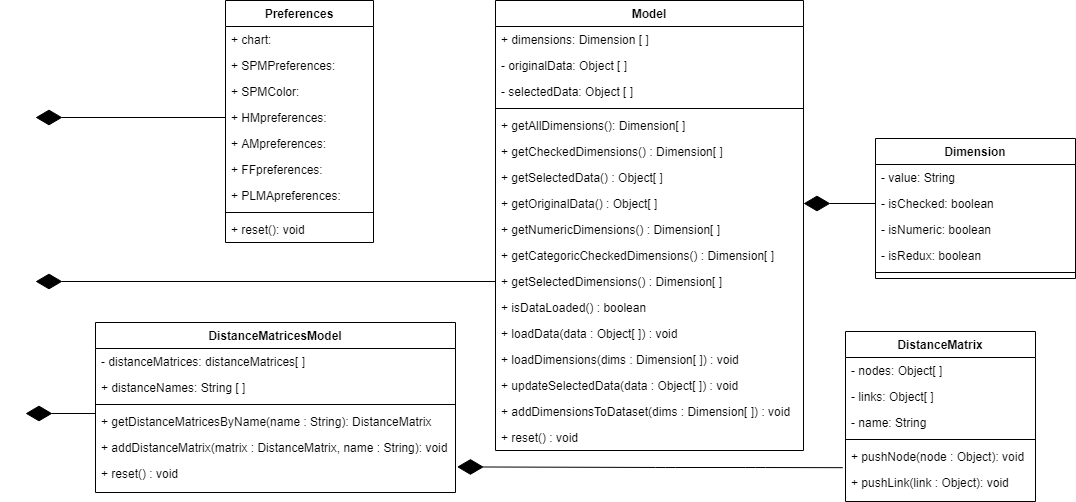
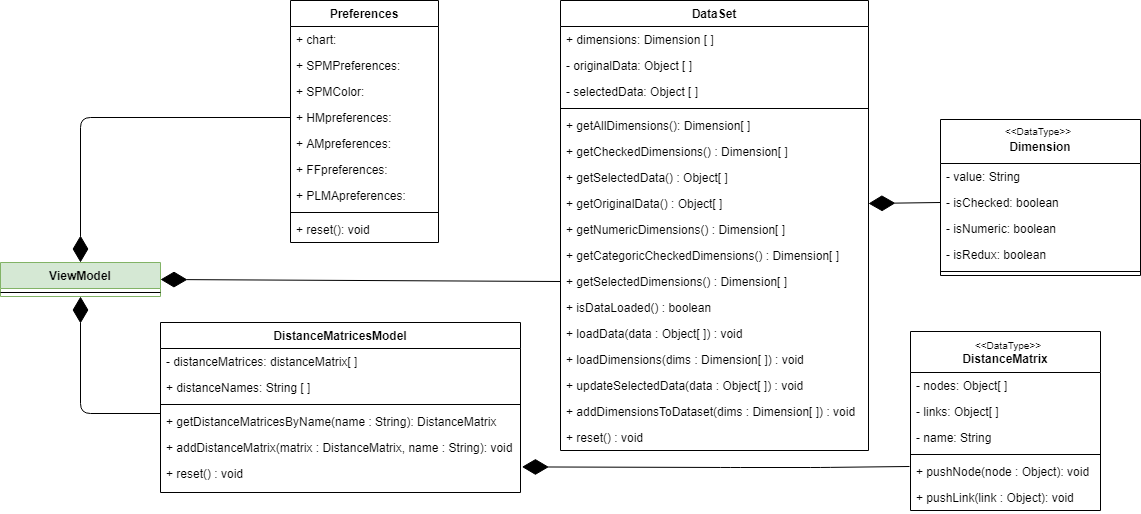
update diagrammi

diff --git a/DocEsterna/AllegatoTecnico/Section/ArchitetturaProdotto.tex b/DocEsterna/AllegatoTecnico/Section/ArchitetturaProdotto.tex
@@ -11,6 +11,7 @@ Il pattern architetturale scelto dal gruppo per lo sviluppo del progetto è il M
 
 Il passaggio dei dati dal \textit{Model} alle varie componenti grafiche avviene attraverso l'utilizzo di un \textit{Context React}, al quale viene passato un'istanza del \textit{ViewModel}. L'utilizzo di un \textit{Context React} ci permette di accedere al valore corrente del \textit{ViewModel} in qualsiasi porzione della \textit{View}, senza doverlo passare di componente in componente attraverso le props (ossia gli argomenti dei componenti che compongono la vista). Nella radice dell'applicazione viene infatti creata un'istanza del \textit{ViewModel}, che viene passata ad un \textit{Context.Provider}, che fa da contenitore per tutta la \textit{View}. All'interno di tale contenitore ogni componente può utilizzare un hook per accedere al \textit{Context React} ed utilizzare il valore più recente del \textit{ViewModel}.\\ È stato scelto di utilizzare un \textit{Context React} per il passaggio dei dati in quanto la nostra applicazione è molto profonda e non risultava conveniente passare i dati per molti componenti rischiando, nel peggiore dei casi, di doverli utilizzare nell'ultimo della gerarchia.\\
 Per poter fare in modo che una componente della \textit{View} si renderizzi non solo al cambiamento del suo stato interno ma anche al cambiamento dei dati nel \textit{Model}, abbiamo utilizzato la libreria \textit{Mobx}. Questa ci permette di implementare l'\textbf{observer pattern}, non supportato di default da \textit{React}. A tale scopo, Mobx permette di segnare delle classi (o attributi di esse) come "\textit{observable}" e di costruire dei componenti della View come "\textit{observer}". Quest'ultimi vengono automaticamente ri-renderizzati al cambiamento di un qualsiasi attributo \textit{observable}.
+
 \newpage
 
 \subsection{Diagramma dei package}
@@ -28,7 +29,7 @@ Per poter fare in modo che una componente della \textit{View} si renderizzi non 
 
 \subsection{Diagrammi delle classi}
 \begin{figure}[hb]
-\includegraphics[width=14.8cm]{Images/Allegato Tecnico-Class}
+\includegraphics[width=14.7cm]{Images/Allegato Tecnico-Class}
 \centering
 \caption{Diagramma delle classi generale}
 \end{figure}
@@ -71,20 +72,24 @@ Qui di seguito vengono rappresentati i diagrammi di sequenza per le 3 operazioni
 \caption{Diagramma di sequenza che modella il processo di riduzione dimensionale}
 \end{figure}
 \newpage
+\vspace*{\fill}
 \begin{figure}[hb]
 \includegraphics[width=15.5cm]{Images/Allegato Tecnico-Sequenza-PLMApref}
 \centering
 \caption{Diagramma di sequenza che modella il processo di visualizzazione delle preferenze per il grafico PLMA}
 \end{figure}
+\vfill
 \newpage
+\vspace*{\fill}
 \begin{figure}[hb]
 \includegraphics[width=15.5cm]{Images/Allegato Tecnico-Sequenza-PLMA}
 \centering
 \caption{Diagramma di sequenza che modella il processo per la visualizzazione del grafico PLMA}
 \end{figure}
+\vfill
 \newpage
 
-\subsection{Design pattern utilizzati}
+\subsection{Strategy Pattern}
 Per implementare il processo di riduzione dimensionale è stato utilizzato il design pattern \textbf{strategy}. Questo è stato possibile perché l'unica sostanziale differenza era determinata dalla tipologia di algoritmo applicato. Definire una famiglia di algoritmi e isolarli all'interno di un oggetto ci ha permesso di renderli interscambiabili dinamicamente ed evitare duplicazione di codice. 
 \begin{itemize}
 \item \textbf{DimReduction.js}: rappresenta il \textit{Context}, ovvero la classe concreta che invoca la \textit{ConcreteStrategy} sotto richiesta del client;
